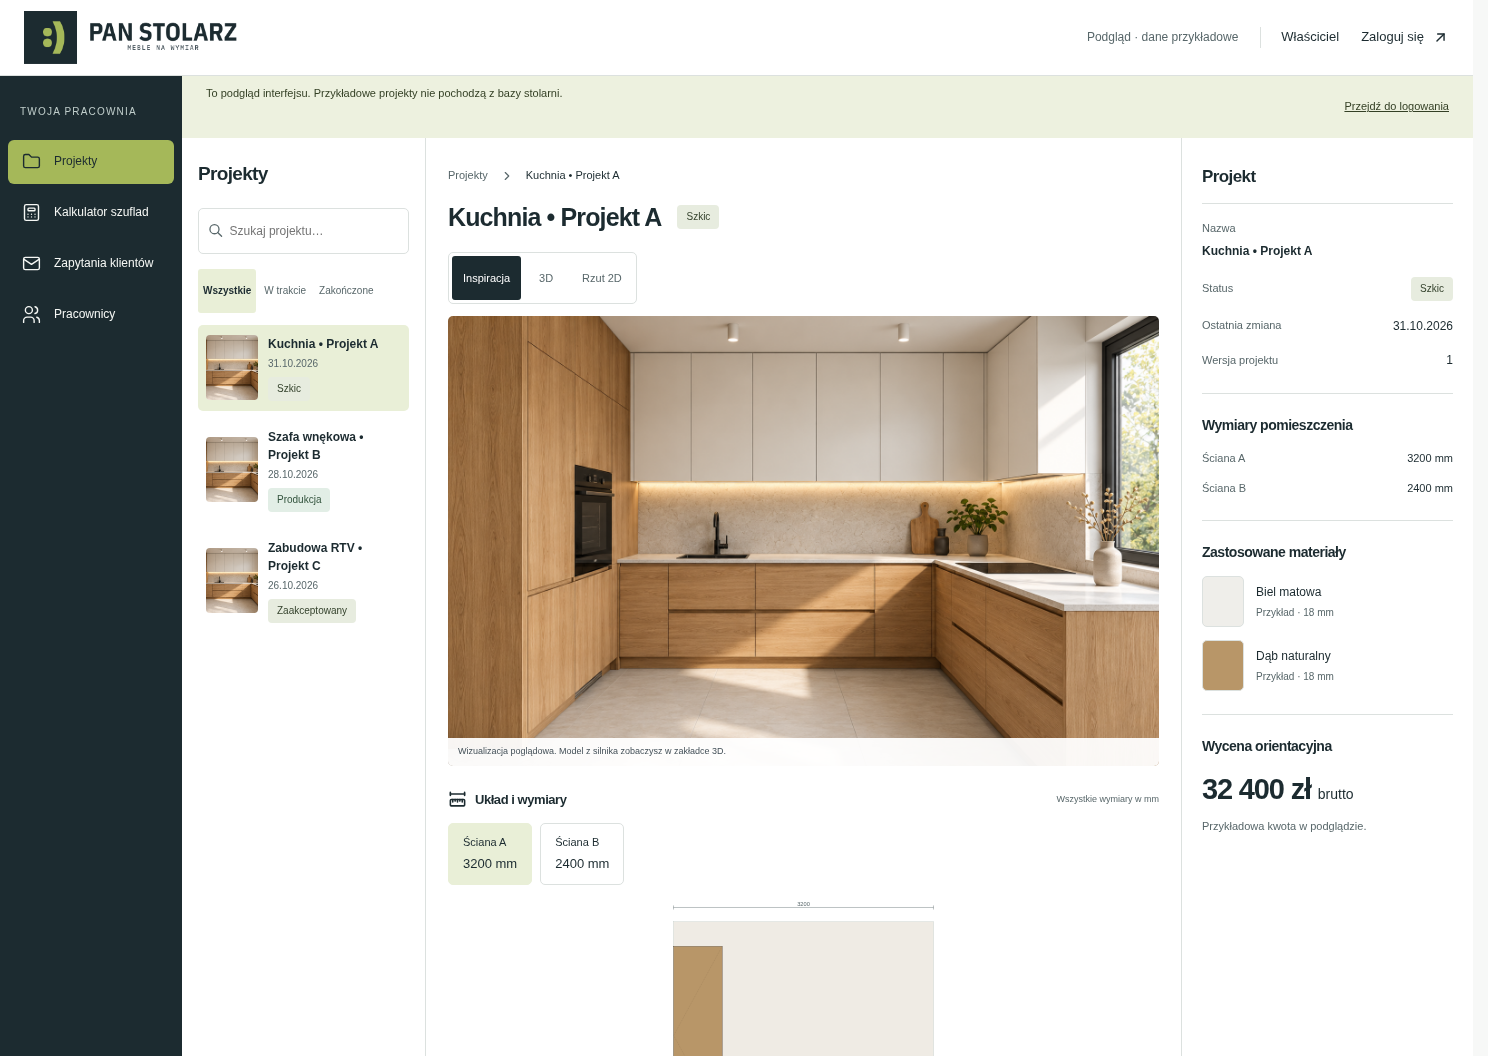
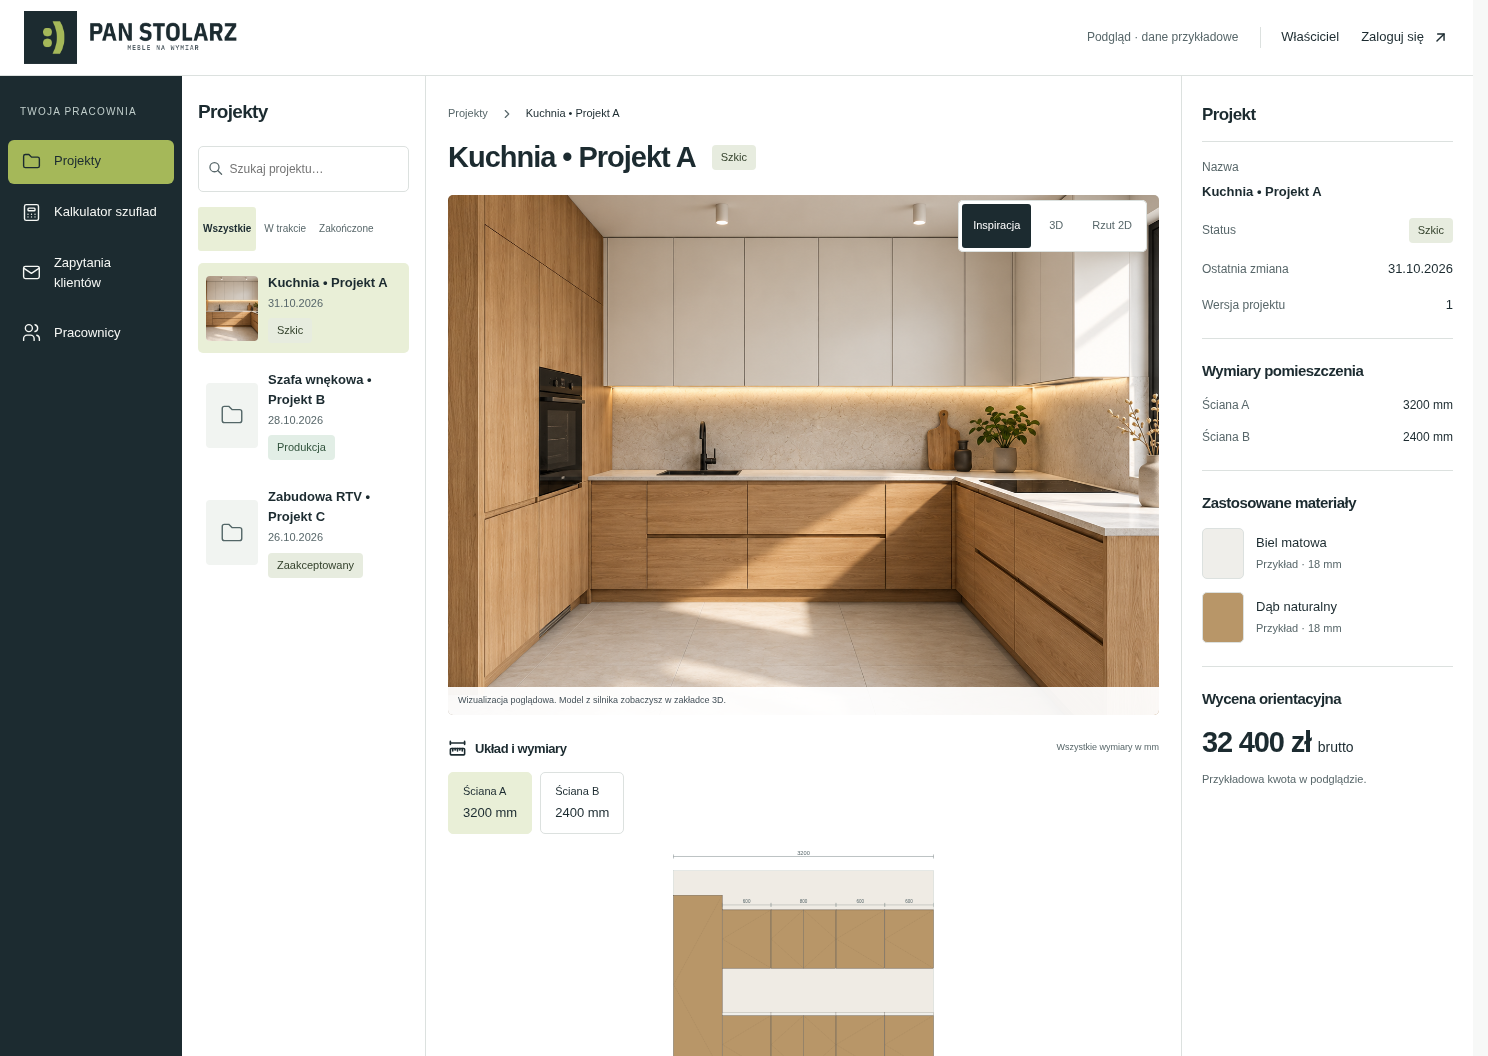
Refine branded workspace proportions and project-specific previews

diff --git a/web/src/v2/demo.ts b/web/src/v2/demo.ts
@@ -35,7 +35,7 @@ export const demoProjects: ProjectSummary[] = [
     nazwa: "Kuchnia • Projekt A",
     status: "szkic",
     zmieniono: "2026-10-31T09:00:00Z",
-    liczbaModulow: 7,
+    liczbaModulow: 11,
   },
   {
     id: "pokaz-szafa",
@@ -54,7 +54,7 @@ export const demoProjects: ProjectSummary[] = [
 ];
 export function demoProject(id: string): TechnicalAnalysis {
   const summary = demoProjects.find((p) => p.id === id) ?? demoProjects[0];
-  const moduly = [
+  let moduly = [
     module("m1", 0, 600, "a", true),
     module("m2", 600, 600),
     module("m3", 1200, 800),
@@ -63,6 +63,40 @@ export function demoProject(id: string): TechnicalAnalysis {
     module("m6", 600, 600, "b"),
     module("m7", 1200, 600, "b"),
   ];
+  const upper = (id: string, x: number, width: number): Modul => ({
+    ...module(id, x, width),
+    nazwa: "Szafka wisząca",
+    kategoria: "wall",
+    pozycjaYMM: 1400,
+    wysokoscMM: 720,
+    glebokoscMM: 320,
+    konfiguracja: domyslnaKonfiguracja({
+      construction: "shelves",
+      category: "wall",
+      widthMM: width,
+      heightMM: 720,
+    }),
+  });
+  moduly.push(
+    upper("u1", 600, 600),
+    upper("u2", 1200, 800),
+    upper("u3", 2000, 600),
+    upper("u4", 2600, 600),
+  );
+  if (summary.id === "pokaz-szafa")
+    moduly = [
+      module("s1", 0, 600, "a", true),
+      module("s2", 600, 600, "a", true),
+      module("s3", 1200, 600, "a", true),
+    ];
+  if (summary.id === "pokaz-rtv")
+    moduly = [module("r1", 0, 900), module("r2", 900, 900)].map((m) => ({
+      ...m,
+      nazwa: "Szafka RTV",
+      wysokoscMM: 400,
+      pozycjaYMM: 450,
+      konfiguracja: { ...m.konfiguracja, blat: false, nogi: false },
+    }));
   return {
     projekt: {
       ...summary,
@@ -75,10 +109,30 @@ export function demoProject(id: string): TechnicalAnalysis {
           materialKorpusuId: "white",
           materialFrontuId: "oak",
           materialBlatuId: "white",
-          sciany: [
-            { id: "a", nazwa: "Ściana A", dlugoscMM: 3200, wysokoscMM: 2600 },
-            { id: "b", nazwa: "Ściana B", dlugoscMM: 2400, wysokoscMM: 2600 },
-          ],
+          sciany:
+            summary.id !== "pokaz-kuchnia"
+              ? [
+                  {
+                    id: "a",
+                    nazwa: "Ściana A",
+                    dlugoscMM: 1800,
+                    wysokoscMM: 2600,
+                  },
+                ]
+              : [
+                  {
+                    id: "a",
+                    nazwa: "Ściana A",
+                    dlugoscMM: 3200,
+                    wysokoscMM: 2600,
+                  },
+                  {
+                    id: "b",
+                    nazwa: "Ściana B",
+                    dlugoscMM: 2400,
+                    wysokoscMM: 2600,
+                  },
+                ],
         },
       ],
     },

diff --git a/web/src/v2/Workspace.tsx b/web/src/v2/Workspace.tsx
@@ -149,7 +149,7 @@ export function Workspace({
                   aria-pressed={p.id === id}
                 >
                   <span className="ps-project-thumb">
-                    {demo ? (
+                    {demo && p.id === "pokaz-kuchnia" ? (
                       <img src="/images/kitchen-concept.png" alt="" />
                     ) : (
                       <IconFolder size={26} stroke={1.3} />
@@ -241,7 +241,7 @@ function ProjectDetail({
     owner && !demo ? `/api/projekty/${encodeURIComponent(id)}/analiza` : null,
   );
   const [view, setView] = useState<"image" | "3d" | "2d">(
-    demo ? "image" : "2d",
+    demo && id === "pokaz-kuchnia" ? "image" : "2d",
   );
   const [selectedModule, setSelectedModule] = useState<string | null>(null);
   const [wall, setWall] = useState("");
@@ -290,7 +290,7 @@ function ProjectDetail({
                 role="group"
                 aria-label="Widok projektu"
               >
-                {demo && (
+                {demo && id === "pokaz-kuchnia" && (
                   <button
                     aria-pressed={view === "image"}
                     onClick={() => setView("image")}

diff --git a/web/src/v2/styles.css b/web/src/v2/styles.css
@@ -1793,3 +1793,57 @@ summary:focus-visible {
   display: inline-flex;
   align-items: center;
 }
+/* Match the selected project-first composition; retain a clear mobile demo notice. */
+.ps-project-canvas {
+  position: relative;
+}
+.ps-sidebar nav a {
+  font-size: 13px;
+}
+.ps-project-items strong {
+  font-size: 13px;
+}
+.ps-project-items small {
+  font-size: 11px;
+}
+.ps-status {
+  font-size: 11px;
+}
+.ps-canvas-heading h2 {
+  font-size: 29px;
+}
+.ps-project-inspector section > h3 {
+  font-size: 15px;
+}
+.ps-detail-list dt,
+.ps-inspector-measure {
+  font-size: 12px;
+}
+.ps-detail-list dd,
+.ps-material-item strong {
+  font-size: 13px;
+}
+.ps-material-item small {
+  font-size: 11px;
+}
+@media (min-width: 1200px) {
+  .ps-demo-banner {
+    display: none;
+  }
+  .ps-canvas-toolbar {
+    position: absolute;
+    right: 34px;
+    top: 124px;
+    z-index: 2;
+    background: var(--panel);
+    border-radius: 5px;
+  }
+  .ps-visual {
+    height: 520px;
+  }
+}
+@media (max-width: 520px) {
+  .ps-canvas-heading h2 {
+    font-size: 23px;
+  }
+}

diff --git a/tests/v2/interface.spec.ts b/tests/v2/interface.spec.ts
@@ -166,7 +166,7 @@ test("demo supports 3D and 2D and is explicitly not a login", async ({
   page.on("pageerror", (e) => errors.push(e.message));
   await page.goto("/#/podglad/owner");
   await expect(
-    page.getByText("To podgląd interfejsu.", { exact: false }),
+    page.getByText("Podgląd · dane przykładowe", { exact: false }),
   ).toBeVisible();
   await page.getByRole("button", { name: "3D", exact: true }).click();
   await expect(page.locator("canvas")).toHaveCount(1);

diff --git a/web/src/views/Elewacja.tsx b/web/src/views/Elewacja.tsx
@@ -226,4 +226,3 @@ function Wymiar({ x1, x2, y, tekst, gruby }: { x1: number; x2: number; y: number
     </g>
   );
 }
-

diff --git a/design-qa.md b/design-qa.md
@@ -10,8 +10,8 @@
 
 ## Kontrole
 
-- Typografia: font systemowy z polskimi znakami, czytelne kwoty i jednostki; źródło i implementacja mają zbliżony język bezszeryfowy. Implementacja jest miejscami bardziej kompaktowa niż makieta.
-- Układ: zachowano grafitową nawigację, listę projektów, duży obszar podglądu i prawy inspektor. Dodatkowy pasek demonstracyjny i osobny wybór widoku przesuwają treść względem makiety.
+- Typografia: font systemowy z polskimi znakami, czytelne kwoty i jednostki; źródło i implementacja mają zbliżony język bezszeryfowy. Po korekcie zwiększono tekst nawigacji, listy projektów i inspektora; implementacja nadal jest miejscami bardziej kompaktowa niż makieta.
+- Układ: zachowano grafitową nawigację, listę projektów, duży obszar podglądu i prawy inspektor. Na desktopie oznaczenie demonstracji przeniesiono do górnego paska, a wybór widoku nad obraz; przywrócono większą wysokość wizualizacji.
 - Kolory: użyto rzeczywistych kolorów logo #1C2B30 i #A5B859, jasnych powierzchni i grafitowego tekstu.
 - Obrazy: oryginalny PNG logo, bez odtwarzania znaku; wygenerowana wizualizacja wnętrza odpowiada kierunkowi, ma jawny status poglądowy. Rysunek techniczny pochodzi z istniejącego renderera i nie udaje fotograficznej elewacji z makiety.
 - Treści: zamiast fikcyjnych istniejących klientów są syntetyczne projekty. Demonstracja nie udaje generowania ofert ani zapisu. Prawdziwe wyceny i przejścia są dostępne właścicielowi po skonfigurowaniu kont.
@@ -22,11 +22,12 @@
 1. P2: nagłówek strony klienta przekraczał ekran telefonu. Przywrócono poprawne łamanie; ponowne zrzuty i test szerokości 390 px bez przepełnienia dokumentu.
 2. P2: szczegółowy selektor zmniejszał kwotę w inspektorze. Dodano właścicielski wariant typografii kwoty i ponownie obejrzano zrzut.
 3. P2: obraz miał dodatkową wysokość wynikającą z zachowania elementu inline. Ustawiono display:block. Zwiększono pola dotykowe kompaktowych kontrolek do 44 px.
-4. Testy ujawniły koszt inicjalizacji 3D przed pierwszym pokazaniem rzeczywistego projektu. Domyślnym widokiem danych technicznych jest teraz 2D; 3D uruchamia użytkownik. To jawna różnica funkcjonalna względem wizualizacji marketingowej.
+4. Różne projekty demonstracyjne mają odrębną geometrię; zdjęcie inspiracyjne i miniatura kuchni występują wyłącznie przy kuchni.
+5. Testy ujawniły koszt inicjalizacji 3D przed pierwszym pokazaniem rzeczywistego projektu. Domyślnym widokiem danych technicznych jest teraz 2D; 3D uruchamia użytkownik. To jawna różnica funkcjonalna względem wizualizacji marketingowej.
 
 ## Pozostałe różnice do kolejnej iteracji
 
-- P2: kompaktowe rozmiary tekstu, pionowe proporcje głównego obszaru i widoczność elewacji w pierwszym ekranie nadal odbiegają od wybranej makiety. Zestawienie dokumentuje tę różnicę; nie deklarujemy zgodności pikselowej.
+- P2: po korekcie typografii i proporcji elewacja nadal znajduje się niżej niż w makiecie. Zestawienie pokazuje aktualny stan; dalsza iteracja powinna zwiększyć czytelność rysunku i jego wymiarów.
 - P2: źródło przedstawia bogatszą prezentację konkretnego projektu niż renderer dostępny obecnie z silnika. Dalsza poprawa podglądu powinna korzystać z rzeczywistej geometrii i zapisanych wizualizacji projektu, zamiast przypisywać tę samą fotografię różnym meblom.
 - Brak sprawdzenia na fizycznym telefonie i prawdziwych kontach. Konta/migracja wymagają odrębnego uruchomienia według docs/PAN-STOLARZ-2.0.md.
 
